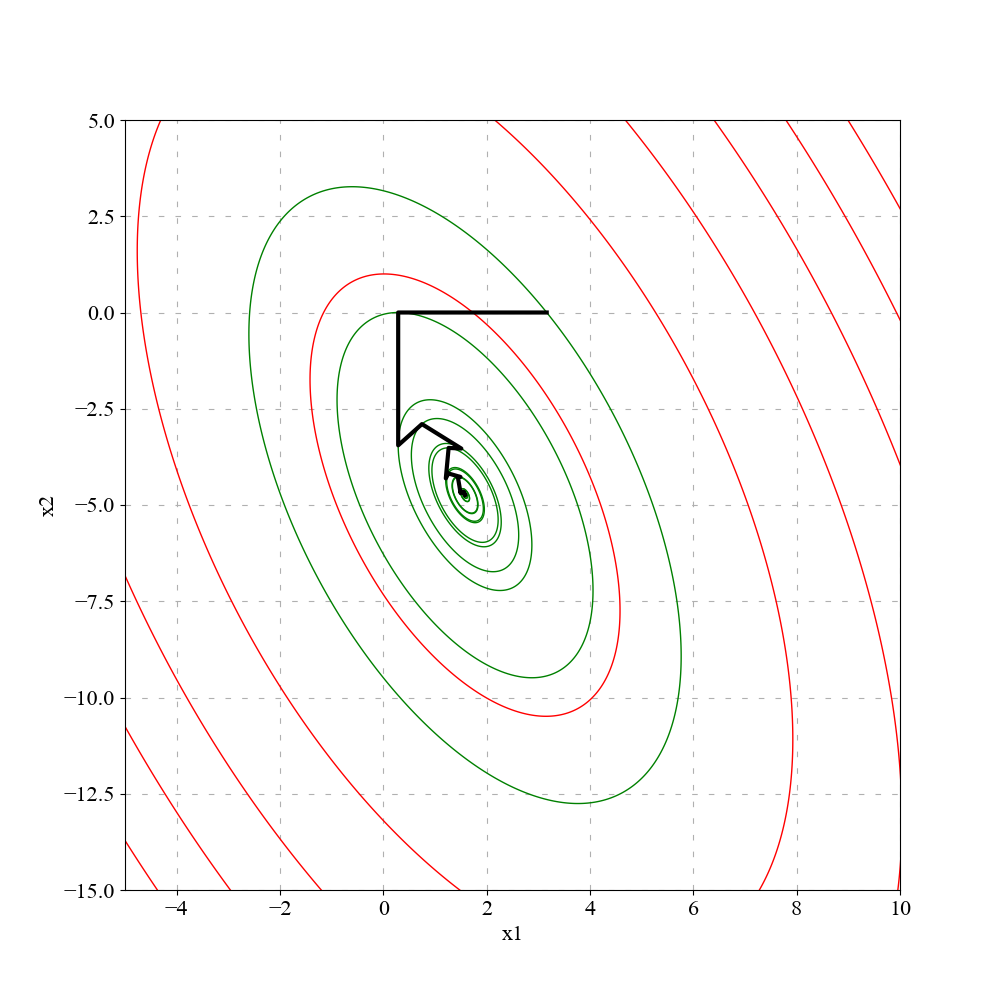
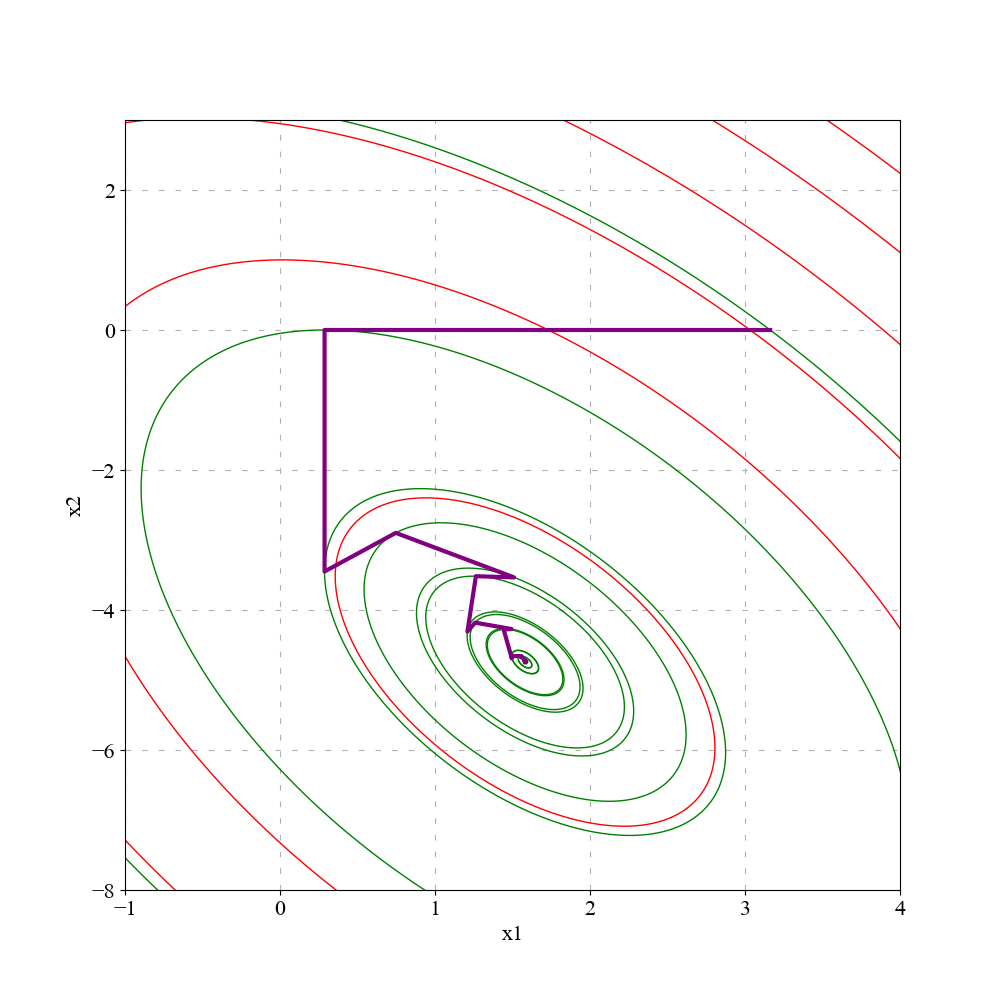
asd

diff --git a/sch3.py b/sch3.py
@@ -1,0 +1,167 @@
+import numpy as np 
+import matplotlib.pyplot as plt 
+plt.rcParams.update({'font.family': "Times New Roman"})
+plt.rcParams.update({'font.size': 16}) 
+import os 
+import sys 
+dir_ = sys.path[0] 
+res = open(os.path.join(dir_,f"result_3.txt"), 'w') #файл для записи 
+N = 4 #количество знаков после запятой 
+#постановка задачи 
+Q = np.array([[22,6],[6,6]]) 
+b = np.array([[-2*np.sqrt(10.0)],[6*np.sqrt(10)]]) 
+c = -22 
+n = 2  
+i = n+1 
+
+x0 = np.array([[np.sqrt(10.0)],[0]]) 
+epsilon = 10**(-3) #погрешность 
+def X(x): 
+    return np.array([[x[0]],[x[1]]]) 
+def f(x): 
+    return (1/2*float(np.dot(np.dot(np.transpose(x),Q),x))+float(np.dot(np.transpose(b),x))+ c) 
+#константы и функции для построения графика 
+left = -1
+rigth = 4
+bottom = -8
+top = 3
+x1, x2 = np.mgrid[left-0.5:rigth+0.5:0.01,bottom-0.5:top+0.5:0.01] 
+zg = 11*x1**2+3*x2**2+6*x1*x2-2*np.sqrt(10)*(x1-3*x2)-22 
+
+def graph(label,x,fx): #функция построения графика 
+    fig, ax = plt.subplots() 
+    ax.set_xlabel("x1") 
+    ax.set_ylabel("x2") 
+    fig.set_figwidth(10) 
+    fig.set_figheight(10) 
+    ax.contour(x1, x2, zg, colors = 'yellow',linewidths=1, linestyles = 'solid')     
+    ax.axis([left, rigth, bottom, top]) 
+    xg = [] 
+    yg = [] 
+    xg_m = [] 
+    yg_m = [] 
+    for k in range(len(x)): 
+        xg_m.append(float(x_m[k][0][0])) 
+        yg_m.append(float(x_m[k][1][0])) 
+        for j in range(i): 
+            xg.append(float(x[k][j][0][0]))             
+            yg.append(float(x[k][j][1][0]))         
+        xg.append(float(x[k][0][0][0])) 
+        yg.append(float(x[k][0][1][0])) 
+    ax.plot(x0[0], x0[1],color = 'coral', marker='o', markersize=3, markeredgecolor="black") 
+    ax.plot(xg, yg, color = 'purple',lw=3) 
+    plt.grid(linestyle = (0, (5, 10))) 
+    plt.savefig(os.path.join(dir_,f"3_{label}.png"), format = 'png') 
+def write(k,x,fx,s): #запись данных в файл 
+    for j in range(i): 
+        if j == 0: 
+            t = f'{k+1:7}\t{j+1:7}\t[{np.round(x[k][j][0][0],4):7},{np.round(x[k][j][1][0],4):7}] \t{np.round(fx[k][j],4):7}\t{np.round(s,4):7}' 
+        else: 
+            t = f'{"":7}\t{j+1:7}\t[{np.round(x[k][j][0][0],4):7},{np.round(x[k][j][1][0],4):7}] \t{np.round(fx[k][j],4):7}\t{"":7}' 
+        print(t) 
+        res.write(t + '\n')
+
+def x_c(x): 
+    x_c = X([0,0]) 
+    for x_ in x[:-1]:         
+        x_c = x_c + x_    
+    x_c /= n 
+    return x_c 
+
+def stop(x): 
+    s = 0 
+    for j in range(i): 
+        s+= ((f(x[j])-f(x_c(x)))**2)     
+    return (1/(n+1)*s)**(0.5) 
+l = 2 
+label = f'Регулярный симплекс (l = {l})' 
+print(label) 
+res.write(label + '\n') 
+k = 0 
+delta = 0.5 
+x = [] 
+fx = [] 
+x_m = [] 
+x.append([]) 
+fx.append([]) 
+x_m.append(x0) 
+h = (l**2-(l/2)**2)**(0.5) 
+x[k].append(X([-l/2+x0[0][0],x0[1][0]-h/3])) 
+x[k].append(X([l/2+x0[0][0],x0[1][0]-h/3])) 
+x[k].append(X([x0[0][0],x0[1][0]+2*h/3]))
+x[k] = sorted(x[k],key=f) 
+for j in range(i): 
+    fx[k].append(f(x[k][j])) 
+write(k,x,fx,stop(x[k])) 
+while stop(x[k]) > epsilon: 
+    x_n = 2*x_c(x[k]) - x[k][-1] 
+    x_m.append(2*x_c(x[k]) - x_m[k])     
+    x.append([]) 
+    for j in range(0,i-1): 
+        x[k+1].append(x[k][j]) 
+    x[k+1].append(x_n) 
+    if f(x_n) >= fx[k][-1]: 
+        for j in range(1,i): 
+            x[k+1][j] = (x[k+1][0]+delta*(x[k+1][j]-x[k+1][0])) #редукция       
+        x_m[k+1] = (x[k+1][0]+delta*(x_m[k+1] -x[k+1][0])) 
+    k+= 1 
+    x[k] = sorted(x[k],key=f) 
+    fx.append([]) 
+    for j in range(i): 
+        fx[k].append(f(x[k][j])) 
+    write(k,x,fx,stop(x[k])) 
+print(len(x),x[k][0],f(x[k][0])) 
+graph(label,x,fx) 
+label = f'Нелдера-Мида (l = {l})' 
+print(label) 
+res.write(label + '\n') 
+k = 0 
+delta = 0.5 
+alpha = 1 
+betta = 2 
+gamma = 0.5 
+x = [] 
+fx = [] 
+x_m = [] 
+z = []   
+x.append([]) 
+fx.append([]) 
+x_m.append(x0) 
+z.append([]) 
+#z.append([0,0,0,0]) 
+h = (l**2-(l/2)**2)**(0.5) 
+x[k].append(X([-l/2+x0[0][0],x0[1][0]-h/3])) 
+x[k].append(X([l/2+x0[0][0],x0[1][0]-h/3])) 
+x[k].append(X([x0[0][0],x0[1][0]+2*h/3])) 
+x[k] = sorted(x[k],key=f) 
+for j in range(i): 
+    fx[k].append(f(x[k][j])) 
+write(k,x,fx,stop(x[k])) 
+while stop(x[k]) > epsilon: 
+    x_c_ = x_c(x[k]) 
+    z[k].append(x_c_+alpha*(x_c_-x[k][-1])) #отражение 
+    z[k].append(x_c_+betta*(z[k][0]-x_c_)) #растяжение 
+    z[k].append(x_c_+gamma*(z[k][0]-x_c_)) #сжатие + 
+    z[k].append(x_c_+gamma*(x[k][-1]-x_c_)) #сжатие - 
+    z[k] = sorted(z[k],key=f) 
+    x.append([]) 
+    z.append([]) 
+    fx.append([]) 
+    if f(z[k][0]) < f(x[k][-1]): 
+        x[k+1] = x[k][:-1] 
+        x[k+1].append(z[k][0]) 
+    else: 
+        for j in range(1,i): 
+            x[k+1][j].append(x[k][0]+delta*(x[k][j]-x[k][0])) #редукция     
+    k+= 1 
+    x[k] = sorted(x[k],key=f) 
+    x_m_ = X([0,0]) 
+    for j in range(i): x_m_ = x_m_+ x[k][j] 
+    x_m.append(x_m_/3) 
+    for j in range(i): 
+        fx[k].append(f(x[k][j])) 
+    write(k,x,fx,stop(x[k])) 
+print(len(x),x[k][0],f(x[k][0])) 
+graph(label,x,fx) 
+res.close() 
+input('Готово') 

diff --git a/sch2.py b/sch2.py
@@ -22,10 +22,10 @@ def f(x):
     return (1/2*float(np.dot(np.dot(np.transpose(x),Q),x))+float(np.dot(np.transpose(b),x))+ c) 
 
 #константы и функции для построения графика 
-left = -5
-rigth = 10
-bottom = -15
-top = 5
+left = -1
+rigth = 4
+bottom = -8
+top = 3
 x1, x2 = np.mgrid[left-0.5:rigth+0.5:0.01,bottom-0.5:top+0.5:0.01] 
 zg = 11*x1**2+3*x2**2+6*x1*x2-2*np.sqrt(10)*(x1-3*x2)-22 
 
@@ -63,7 +63,7 @@ def graph(label,x,fx,t): #функция построения графика
 # ax.arrow(xg[i-1],yg[i-1],(xg[i]-xg[i-1])/2,(yg[i]-yg[i-1])/2, 
 #length_includes_head=True, color='r',  head_width = 0.08) 
     #ax.plot(xg, yg,color = 'r', marker='o', markersize=3, markeredgecolor="black") 
-    ax.plot(xg, yg, color = 'black',lw=3) 
+    ax.plot(xg, yg, color = 'purple',lw=3) 
     #if t == 2: 
 # ax.plot(xg2, yg2,color = 'r', linestyle = '--', linewidth=0.5) 
     #plt.show() 

diff --git a/sch.py b/sch.py
@@ -42,7 +42,7 @@ def graph(label,x,fx): #функция построения графика
     for i in range(len(x)): 
         xg.append(float(x[i][0][0])) 
         yg.append(float(x[i][1][0])) 
-    ax.plot(xg, yg, color = 'black',lw=3) 
+    ax.plot(xg, yg, color = 'purple',lw=3) 
     plt.grid(linestyle = (0, (5, 10))) 
     plt.show() 
     plt.savefig(os.path.join(dir_,f"1_{label}.png"), format = 'png') 
